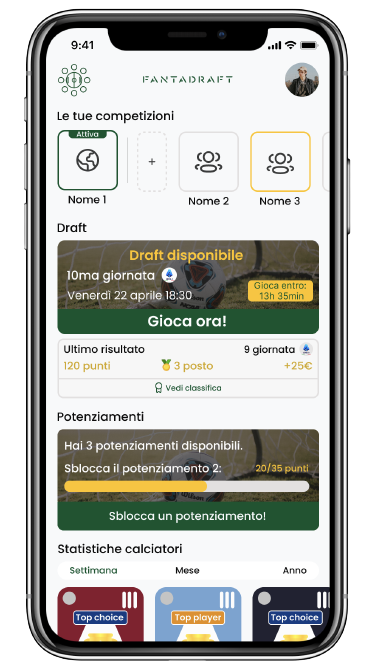
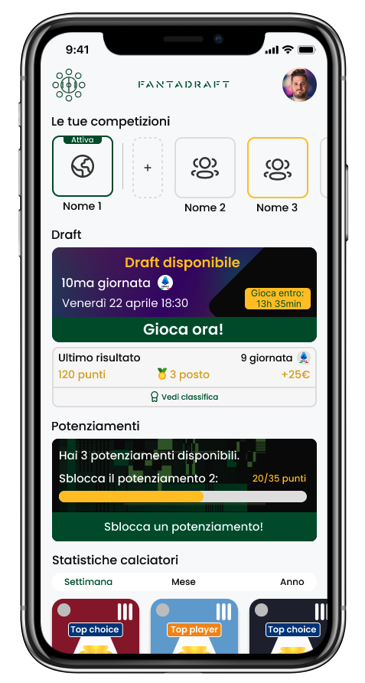
feat: updated home image

diff --git a/components/localizedPages/homepage/en.tsx b/components/localizedPages/homepage/en.tsx
@@ -11,7 +11,7 @@ const EnHomepage = () => {
           <div className="mx-auto max-w-7xl flex flex-col lg:flex-row justify-center py-4">
 
             <div className="flex justify-center mt-5 md:mt-10">
-                <Image src={'/screen1.png'} width={'300px'} height={'550px'} layout={'fixed'}/>
+                <Image src={'/screen1en.png'} width={'300px'} height={'550px'} layout={'fixed'}/>
             </div>
 
             <div className="container py-10 mx-auto text-center sm:px-4 col-span-3">
